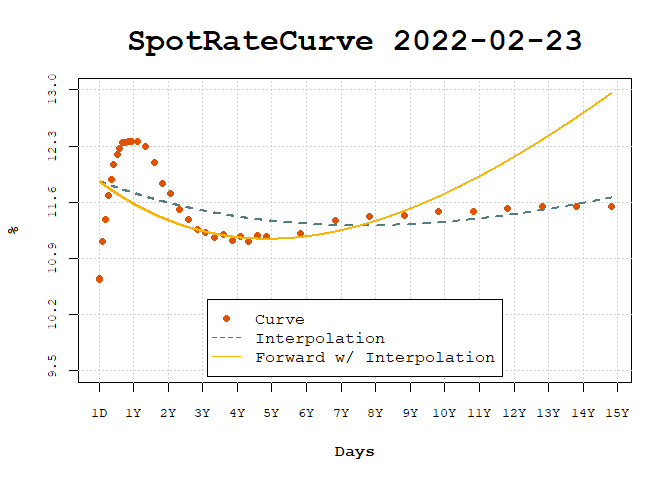
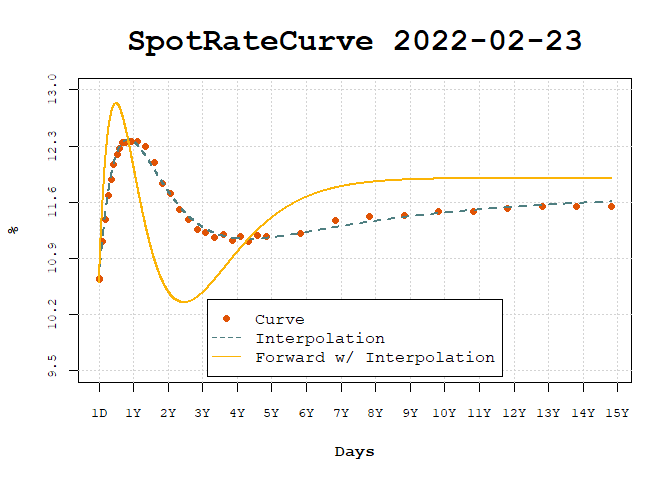
updated readme

diff --git a/README.md b/README.md
@@ -87,17 +87,6 @@ Spot rates can be put inside data.frames.
 
 ``` r
 library(dplyr)
-#> 
-#> Attaching package: 'dplyr'
-#> The following objects are masked from 'package:fixedincome':
-#> 
-#>     first, last
-#> The following objects are masked from 'package:stats':
-#> 
-#>     filter, lag
-#> The following objects are masked from 'package:base':
-#> 
-#>     intersect, setdiff, setequal, union
 library(fixedincome)
 
 df <- tibble(
@@ -141,11 +130,6 @@ Let’s create a spot rate curve using web scraping (from B3 website)
 
 ``` r
 source("examples/utils-functions.R")
-#> 
-#> Attaching package: 'bizdays'
-#> The following object is masked from 'package:stats':
-#> 
-#>     offset
 curve <- get_curve_from_web("2022-02-23")
 curve
 #>          SpotRateCurve
@@ -205,15 +189,17 @@ Parametric models like the Nelson-Siegel-Svensson model can be fitted to
 the curve.
 
 ``` r
+beta1 <- as.numeric(fixedincome::last(curve, "1 day"))
+beta2 <- as.numeric(curve[1]) - beta1
 interpolation(curve) <- fit_interpolation(
-  interp_nelsonsiegelsvensson(0.01, 0.01, 0.01, 0.01, 0.01, 0.01), curve
+  interp_nelsonsiegelsvensson(beta1, beta2, 0.01, 0.01, 2, 1), curve
 )
 
 interpolation(curve)
 #> <Interpolation: nelsonsiegelsvensson > 
 #>  Parameters:
 #>   beta1   beta2   beta3   beta4 lambda1 lambda2 
-#>   0.300  -0.181  -0.858   0.611   0.053   0.054
+#>   0.119  -0.013   1.000  -0.975   1.195   1.122
 ```
 
 Once set to the curve it is used in the plot to show daily forward
